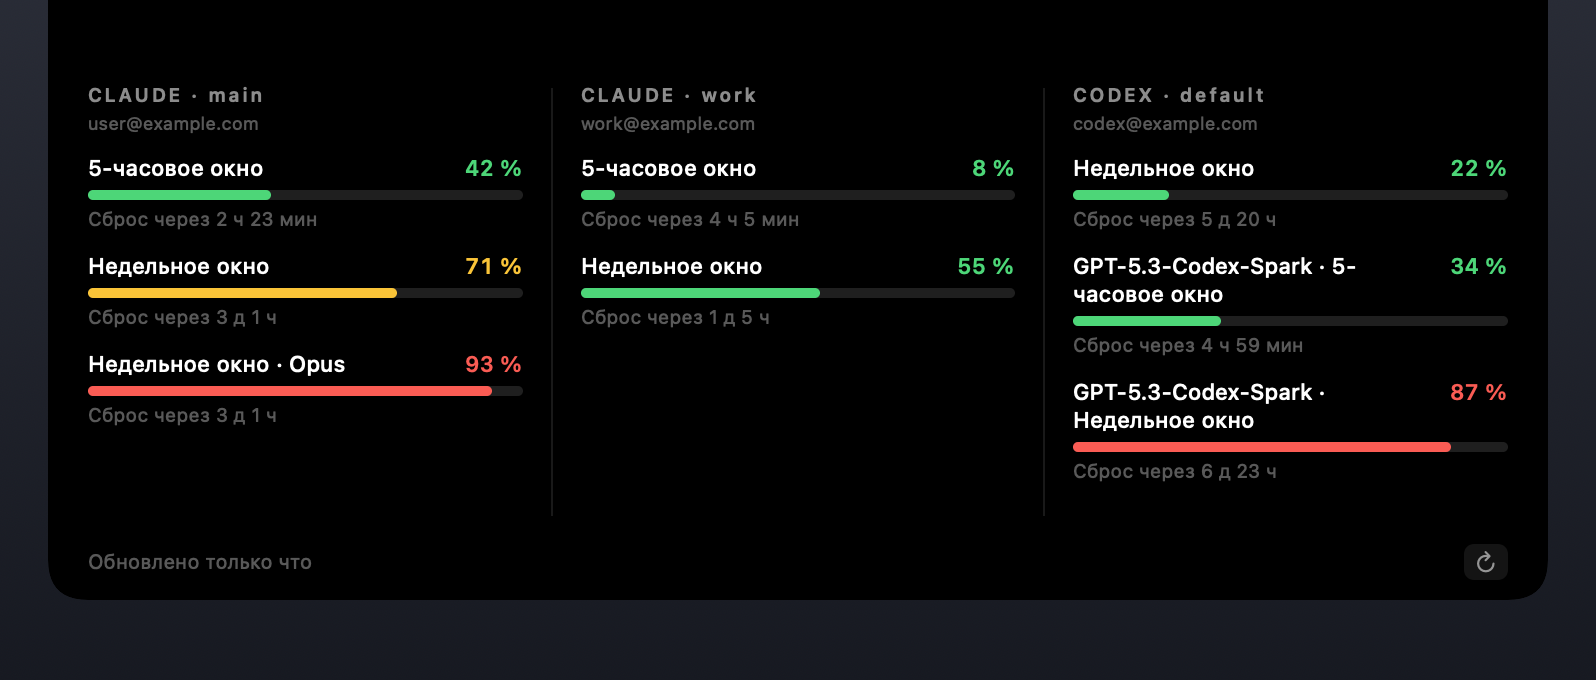
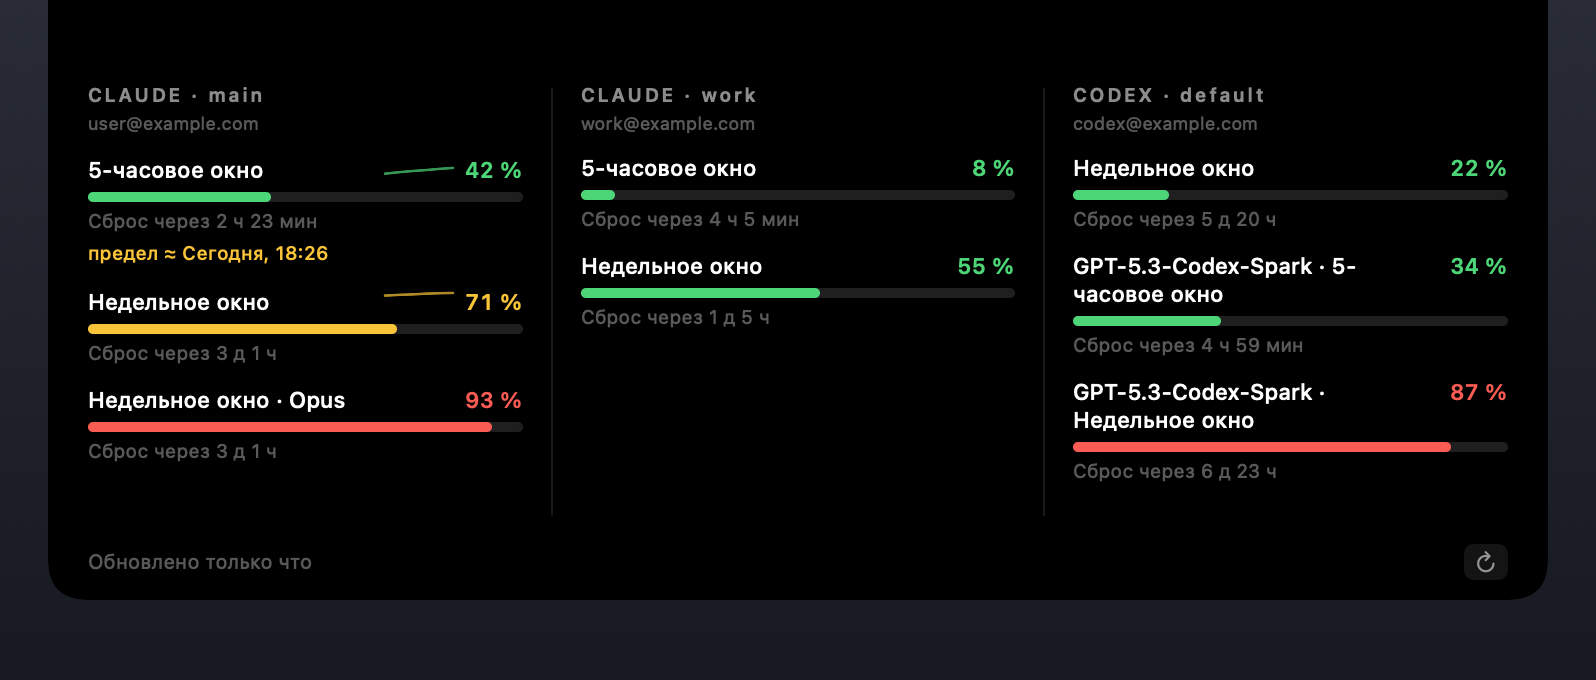
feat(trend): per-window sparkline and burn-rate forecast
Each window now keeps a short local history of its percentage
(UsageHistory, in UserDefaults, no tokens). From it:

- A sparkline next to the percentage on a fixed 0-100 scale, so the
  slope shows the true pace, not an auto-zoomed one. Shown only with
  >= 3 samples and real movement, otherwise it would be flat noise.
- A burn-rate forecast by least-squares slope: if the current pace
  reaches 100 % before the window resets, the row shows "full ≈ <time>"
  in yellow (red when under 45 min away). Flat/falling windows and
  ones that reset in time show nothing. The projection needs >= 3
  samples spanning >= 5 min to avoid slopes built from noise; a reset
  (percentage drop) restarts the series.

LimitWindow gains optional trend/exhaustsAt (optional so old caches
still decode). Pure UsageHistory.projection is covered by self-test;
new burn.limitAt string across all 14 languages (83 keys). Docs
images regenerated to show the sparkline and forecast.

Changed region(s): [[0.0307, 0.3397, 0.3377, 0.6794], [0.0614, 0.2162, 0.3377, 0.3397]]

diff --git a/Sources/NotchLimits/Core/UsageHistory.swift b/Sources/NotchLimits/Core/UsageHistory.swift
@@ -1,0 +1,82 @@
+import Foundation
+
+/// Короткая история процентов по каждому окну — для спарклайна и прогноза
+/// исчерпания. Только числа и метки времени, без токенов; лежит в UserDefaults.
+///
+/// Замеры пишутся на каждый успешный опрос. Когда окно сбрасывается (процент
+/// резко падает), серия начинается заново — старый склон уже не про это окно.
+struct UsageHistory {
+
+    struct Sample: Codable, Equatable {
+        let t: TimeInterval
+        let u: Double
+    }
+
+    private let defaults = UserDefaults.standard
+    private let storeKey = "usageHistory"
+    /// Держим только хвост: для склона важен недавний темп, не вся неделя.
+    private let maxSamples = 40
+    /// Падение процента больше этого считаем сбросом окна.
+    private let resetDrop = 0.5
+
+    /// Записать замер и вернуть обновлённую серию окна.
+    func record(columnID: String, window: LimitWindow, now: Date) -> [Sample] {
+        var all = load()
+        let key = "\(columnID)|\(window.key)"
+        var series = all[key] ?? []
+
+        if let last = series.last, window.utilization < last.u - resetDrop {
+            series = []  // окно сбросилось — начинаем заново
+        }
+        series.append(Sample(t: now.timeIntervalSince1970, u: window.utilization))
+        if series.count > maxSamples { series.removeFirst(series.count - maxSamples) }
+
+        all[key] = series
+        save(all)
+        return series
+    }
+
+    /// Прогноз момента, когда окно упрётся в 100 % при текущем темпе.
+    /// Возвращает дату только если предел наступит РАНЬШЕ сброса — иначе
+    /// беспокоиться не о чем. Чистая функция: покрыта самопроверкой.
+    static func projection(samples: [Sample], current: Double,
+                           resetsAt: Date?, now: Date) -> Date? {
+        guard current < 100, samples.count >= 3 else { return nil }
+
+        // Склон по методу наименьших квадратов, проценты в секунду.
+        let n = Double(samples.count)
+        let meanT = samples.reduce(0) { $0 + $1.t } / n
+        let meanU = samples.reduce(0) { $0 + $1.u } / n
+        var cov = 0.0, varT = 0.0
+        for s in samples {
+            cov += (s.t - meanT) * (s.u - meanU)
+            varT += (s.t - meanT) * (s.t - meanT)
+        }
+        // Нужен заметный разброс по времени, иначе склон — шум.
+        guard varT > 0, let first = samples.first, let last = samples.last,
+              last.t - first.t >= 300 else { return nil }
+
+        let slope = cov / varT
+        guard slope > 0 else { return nil }  // ровно или падает — предела не будет
+
+        let seconds = (100 - current) / slope
+        guard seconds.isFinite, seconds > 0 else { return nil }
+        let eta = now.addingTimeInterval(seconds)
+
+        // Показываем, только если упрёмся до сброса окна.
+        if let resetsAt, eta >= resetsAt { return nil }
+        return eta
+    }
+
+    private func load() -> [String: [Sample]] {
+        guard let data = defaults.data(forKey: storeKey),
+              let dict = try? JSONDecoder().decode([String: [Sample]].self, from: data)
+        else { return [:] }
+        return dict
+    }
+
+    private func save(_ dict: [String: [Sample]]) {
+        guard let data = try? JSONEncoder().encode(dict) else { return }
+        defaults.set(data, forKey: storeKey)
+    }
+}

diff --git a/Sources/NotchLimits/App/SelfTest.swift b/Sources/NotchLimits/App/SelfTest.swift
@@ -21,6 +21,7 @@ enum SelfTest {
         checkJWT()
         checkClaudeAuth()
         checkNotifications()
+        checkBurnRate()
         checkFormatting()
         checkCodableRoundTrips()
         checkLocalizations()
@@ -328,6 +329,54 @@ enum SelfTest {
         // Старый формат состояния без поля пика читается и не ломает разбор.
         let legacy = decide("100@80,95", "200", 3)
         expect("старый формат: пик отсутствует → не шумим", legacy.postReset == false)
+    }
+
+    private static func checkBurnRate() {
+        section("Прогноз исчерпания (burn-rate)")
+        let t0 = Date(timeIntervalSince1970: 1_000_000)
+        func sample(_ minutes: Double, _ u: Double) -> UsageHistory.Sample {
+            UsageHistory.Sample(t: t0.addingTimeInterval(minutes * 60).timeIntervalSince1970, u: u)
+        }
+
+        // Ровный рост 10 % за 30 мин (по 5 % каждые 15 мин): к 100 % ещё далеко,
+        // но сброс близко — упрёмся раньше сброса.
+        let rising = [sample(0, 80), sample(15, 85), sample(30, 90)]
+        let now = t0.addingTimeInterval(30 * 60)
+        let soonReset = now.addingTimeInterval(60 * 60)   // сброс через час
+        let eta = UsageHistory.projection(samples: rising, current: 90,
+                                          resetsAt: soonReset, now: now)
+        expect("растущее окно даёт прогноз", eta != nil)
+        // 90→100 при 5 % / 15 мин = 10 % за 30 мин ⇒ ~30 мин.
+        if let eta {
+            let minutes = eta.timeIntervalSince(now) / 60
+            expect("оценка ~30 мин", abs(minutes - 30) < 3, "\(Int(minutes)) мин")
+        }
+
+        // Тот же рост, но сброс раньше предела — беспокоиться не о чем.
+        expect("если сброс раньше предела — прогноза нет",
+               UsageHistory.projection(samples: rising, current: 90,
+                                       resetsAt: now.addingTimeInterval(10 * 60), now: now) == nil)
+
+        // Плоское окно — предел не наступит.
+        let flat = [sample(0, 40), sample(15, 40), sample(30, 40)]
+        expect("плоское окно без прогноза",
+               UsageHistory.projection(samples: flat, current: 40,
+                                       resetsAt: soonReset, now: now) == nil)
+
+        // Меньше трёх замеров или слишком короткий разброс — не гадаем.
+        expect("двух точек мало", UsageHistory.projection(samples: [sample(0, 10), sample(15, 50)],
+                                                          current: 50, resetsAt: soonReset, now: now) == nil)
+        let tooShort = [sample(0, 10), sample(1, 20), sample(2, 30)]  // разброс 2 мин < 5
+        expect("слишком короткий интервал — не гадаем",
+               UsageHistory.projection(samples: tooShort, current: 30, resetsAt: soonReset, now: now) == nil)
+
+        // Уже на 100 % — прогнозировать нечего.
+        expect("на 100 % прогноза нет",
+               UsageHistory.projection(samples: rising, current: 100, resetsAt: soonReset, now: now) == nil)
+
+        // Спарклайн: жёсткая шкала 0–100, точки в пределах прямоугольника.
+        let path = Sparkline(values: [0, 50, 100]).path(in: CGRect(x: 0, y: 0, width: 30, height: 10))
+        expect("спарклайн строит путь", !path.isEmpty)
     }
 
     private static func checkFormatting() {

diff --git a/Sources/NotchLimits/UI/ColumnView.swift b/Sources/NotchLimits/UI/ColumnView.swift
@@ -124,6 +124,14 @@ struct LimitRowView: View {
     private var fraction: Double { min(max(window.utilization / 100, 0), 1) }
     private var color: Color { Theme.color(for: window.utilization) }
 
+    /// Спарклайн показываем, только когда есть что показывать: хотя бы три
+    /// замера и заметное движение, иначе это просто плоская линия-шум.
+    private var trend: [Double]? {
+        guard let trend = window.trend, trend.count >= 3,
+              let lo = trend.min(), let hi = trend.max(), hi - lo > 1 else { return nil }
+        return trend
+    }
+
     var body: some View {
         VStack(alignment: .leading, spacing: 4) {
             HStack(alignment: .firstTextBaseline, spacing: 6) {
@@ -135,6 +143,13 @@ struct LimitRowView: View {
                     .multilineTextAlignment(.leading)
                     .fixedSize(horizontal: false, vertical: true)
                 Spacer(minLength: 4)
+                if let trend {
+                    Sparkline(values: trend)
+                        .stroke(color.opacity(0.7), style: StrokeStyle(lineWidth: 1.3,
+                                                                       lineCap: .round, lineJoin: .round))
+                        .frame(width: 34, height: 12)
+                        .layoutPriority(1)
+                }
                 Text(Format.percent(window.utilization))
                     .font(.system(size: 11, weight: .semibold).monospacedDigit())
                     .foregroundColor(color)
@@ -158,8 +173,36 @@ struct LimitRowView: View {
                     .font(.system(size: 9.5))
                     .foregroundColor(Theme.tertiary)
             }
+            // Прогноз: упрёмся в предел раньше сброса — предупреждаем.
+            // Цвет тревожный независимо от текущего процента (в том и смысл:
+            // сейчас мало, но при таком темпе не хватит). Совсем скоро — красный.
+            if let exhaustsAt = window.exhaustsAt {
+                Text(L.t("burn.limitAt", Format.resetAbsolute(exhaustsAt)))
+                    .font(.system(size: 9.5, weight: .medium))
+                    .foregroundColor(exhaustsAt.timeIntervalSinceNow < 45 * 60 ? Theme.red : Theme.yellow)
+            }
         }
         // При наведении — точный момент сброса: «сегодня, 13:30».
         .help(window.resetsAt.map(Format.resetAbsolute) ?? "")
+    }
+}
+
+/// Спарклайн процентов. Шкала жёстко 0–100, чтобы крутизна линии отражала
+/// реальный темп, а не автомасштаб: 2 %→3 % должно выглядеть почти плоско.
+struct Sparkline: Shape {
+    let values: [Double]
+
+    func path(in rect: CGRect) -> Path {
+        var path = Path()
+        guard values.count >= 2 else { return path }
+        let stepX = rect.width / CGFloat(values.count - 1)
+        func point(_ index: Int) -> CGPoint {
+            let clamped = min(max(values[index], 0), 100) / 100
+            return CGPoint(x: rect.minX + CGFloat(index) * stepX,
+                           y: rect.maxY - CGFloat(clamped) * rect.height)
+        }
+        path.move(to: point(0))
+        for index in 1..<values.count { path.addLine(to: point(index)) }
+        return path
     }
 }

diff --git a/Sources/NotchLimits/Core/UsageStore.swift b/Sources/NotchLimits/Core/UsageStore.swift
@@ -25,6 +25,7 @@ final class UsageStore: ObservableObject {
     private var tick: Timer?
     private var lastDiscovery: Date?
     private let cache = UsageCache()
+    private let history = UsageHistory()
     private let notifier = ThresholdNotifier()
     private let providers: [Provider: UsageProvider]
     private let discovery: AccountDiscovery
@@ -188,10 +189,20 @@ final class UsageStore: ObservableObject {
         case .success(let snapshot):
             state.backoffStep = 0
             state.nextDue = Date().addingTimeInterval(Schedule.interval)
-            columns[index].windows = snapshot.windows
+            let now = Date()
+            // Дописываем историю и считаем тренд/прогноз для каждого окна.
+            columns[index].windows = snapshot.windows.map { window in
+                let samples = history.record(columnID: id, window: window, now: now)
+                var enriched = window
+                enriched.trend = samples.map(\.u)
+                enriched.exhaustsAt = UsageHistory.projection(samples: samples,
+                                                              current: window.utilization,
+                                                              resetsAt: window.resetsAt, now: now)
+                return enriched
+            }
             columns[index].subtitle = snapshot.subtitle
             columns[index].stats = snapshot.stats
-            columns[index].updatedAt = Date()
+            columns[index].updatedAt = now
             columns[index].status = .ok
             columns[index].fromCache = false
             cache.save(columns[index])

diff --git a/Sources/NotchLimits/App/DebugRender.swift b/Sources/NotchLimits/App/DebugRender.swift
@@ -106,9 +106,12 @@ enum DebugRender {
         main.status = .ok
         main.windows = [
             LimitWindow(key: "five_hour", title: L.t("window.fiveHour"), utilization: 42,
-                        resetsAt: Date().addingTimeInterval(2.4 * hour)),
+                        resetsAt: Date().addingTimeInterval(2.4 * hour),
+                        trend: [18, 24, 29, 33, 38, 42],
+                        exhaustsAt: Date().addingTimeInterval(1.6 * hour)),
             LimitWindow(key: "seven_day", title: L.t("window.week"), utilization: 71,
-                        resetsAt: Date().addingTimeInterval(74 * hour)),
+                        resetsAt: Date().addingTimeInterval(74 * hour),
+                        trend: [60, 63, 65, 68, 70, 71]),
             LimitWindow(key: "seven_day_opus", title: L.t("window.week") + " · Opus", utilization: 93,
                         resetsAt: Date().addingTimeInterval(74 * hour))
         ]

diff --git a/Sources/NotchLimits/Model/Models.swift b/Sources/NotchLimits/Model/Models.swift
@@ -19,6 +19,13 @@ struct LimitWindow: Identifiable, Codable, Equatable {
     /// 0...100
     let utilization: Double
     let resetsAt: Date?
+    /// Недавние замеры процента для спарклайна. Optional — иначе старый кэш
+    /// без этого поля не декодировался бы (synthesized Decodable кинул бы
+    /// keyNotFound). Заполняется при отдаче в UI, не приходит от провайдера.
+    var trend: [Double]?
+    /// Прогноз: когда окно упрётся в 100 % при текущем темпе — если это
+    /// случится раньше сброса. nil — темп нулевой/падает или запаса хватает.
+    var exhaustsAt: Date?
 
     var id: String { key }
 }

diff --git a/Tools/make-strings.py b/Tools/make-strings.py
@@ -55,6 +55,7 @@ ORDER = [
     ("Статистика под окнами", [
         "stat.credits", "stat.unlimited", "stat.resetCredits", "stat.extraUsage",
     ]),
+    ("Прогноз исчерпания", ["burn.limitAt"]),
     ("Уведомления", ["notification.title", "notification.body",
                      "notification.reset.title", "notification.reset.body"]),
     ("Ошибки в колонке", [
@@ -940,6 +941,28 @@ for _lang, (_credits, _unlimited, _resets, _extra) in _STATS.items():
     T[_lang]["stat.unlimited"] = _unlimited
     T[_lang]["stat.resetCredits"] = _resets
     T[_lang]["stat.extraUsage"] = _extra
+
+
+# Прогноз исчерпания: «упрёшься в 100 % примерно тогда-то». Один «%@» —
+# готовая строка времени (Format.resetAbsolute), спецификатор совпадает везде.
+_BURN = {
+    "en":      "full ≈ %@",
+    "ru":      "предел ≈ %@",
+    "de":      "voll ≈ %@",
+    "fr":      "plein ≈ %@",
+    "es":      "lleno ≈ %@",
+    "it":      "pieno ≈ %@",
+    "pt-BR":   "cheio ≈ %@",
+    "uk":      "межа ≈ %@",
+    "pl":      "limit ≈ %@",
+    "tr":      "dolum ≈ %@",
+    "ja":      "上限 ≈ %@",
+    "ko":      "한도 ≈ %@",
+    "zh-Hans": "上限 ≈ %@",
+    "zh-Hant": "上限 ≈ %@",
+}
+for _lang, _text in _BURN.items():
+    T[_lang]["burn.limitAt"] = _text
 
 
 def main():

diff --git a/README.ru.md b/README.ru.md
@@ -15,6 +15,7 @@
 - Живёт в челке: свёрнутая панель совпадает с вырезом пиксель в пиксель и не видна.
 - Работает и без челки (внешний монитор, Mac mini, iMac).
 - Уведомления при пересечении 80 % и 95 % по любому окну и когда заметно израсходованное окно сбрасывается и освобождается.
+- Спарклайн недавнего тренда по каждому окну и прогноз исчерпания: если при текущем темпе окно упрётся в 100 % раньше сброса, строка показывает когда.
 - Переживает перезапуск: последние проценты кэшируются и показываются с пометкой возраста.
 - Ошибка или лимит одного аккаунта не трогает остальные колонки.
 - Интерфейс на 14 языках, выбирается по языку системы.
@@ -96,6 +97,8 @@ pkill -x NotchLimits; open build/NotchLimits.app
 - **`обновляю…`** — данных ещё не было.
 
 Сообщение про re-auth или ошибку показывается **поверх** кэшированных цифр, а не вместо них: иначе протухший токен выглядит просто как старые проценты и непонятно, что надо перелогиниться.
+
+Каждая строка держит короткую локальную историю своего процента (в `UserDefaults`, без токенов). Как накопится несколько замеров с заметным движением, рядом с процентом появляется **спарклайн** — шкала жёстко 0–100, чтобы крутизна отражала реальный темп, а не автомасштаб. По тем же замерам методом наименьших квадратов считается **прогноз исчерпания**: если при текущем темпе окно упрётся в 100 % *раньше* сброса, добавляется строка-предупреждение — `предел ≈ <время>` — жёлтым, а если до этого меньше 45 минут — красным. Плоские и падающие окна, а также те, что успевают сброситься, не показывают ничего. По наведению по-прежнему виден точный момент сброса.
 
 Под окнами перечисляются дополнительные цифры, если эндпоинт их отдал: баланс кредитов, доступные досрочные сбросы, расход сверх плана. Строки с нулём или без значения не показываются.
 
@@ -227,7 +230,7 @@ Sources/NotchLimits/
   UI/         SwiftUI-вёрстка панели
   Model/      типы колонок и окон лимитов
   Providers/  Claude (Keychain + api.anthropic.com), Codex (auth.json + chatgpt.com)
-  Core/       планировщик опроса, кэш, уведомления, хоткеи, добавление аккаунтов
+  Core/       планировщик опроса, кэш, история + прогноз, уведомления, хоткеи, добавление аккаунтов
 Tools/
   make-strings.py   переводы для всех языков
   make-icon.swift   иконка приложения

diff --git a/README.md b/README.md
@@ -15,6 +15,7 @@ A panel that slides out of the MacBook notch with **Claude Code** and **Codex** 
 - Lives in the notch — the collapsed panel matches the cutout pixel-for-pixel and stays invisible.
 - Works without a notch too (external display, Mac mini, iMac).
 - Notifications when any window crosses 80 % and 95 %, and when a heavily-used window resets and frees up.
+- A sparkline of the recent trend per window, plus a burn-rate forecast: if the current pace would hit 100 % before the window resets, the row shows when.
 - Survives restarts: last percentages are cached and shown with an age note.
 - One account's error or rate limit never touches the other columns.
 - UI in 14 languages, picked from the system language.
@@ -96,6 +97,8 @@ Width is 250 pt per column, no less than 500 pt and no wider than the screen min
 - **`updating…`** — no data yet.
 
 A re-auth or error message is shown **on top of** cached numbers, not instead of them — otherwise an expired token just looks like old percentages and there's no hint that you need to log in again.
+
+Each row keeps a short local history of its percentage (in `UserDefaults`, no tokens). Once there are a few samples with real movement, a **sparkline** appears next to the percentage — a fixed 0–100 scale, so the slope reflects the true pace rather than an auto-zoom. From the same samples a **burn-rate forecast** is computed by least-squares slope: if the current pace would reach 100 % *before* the window resets, the row adds a caution line — `full ≈ <time>` — in yellow, or red when that's under 45 minutes away. Flat or falling windows, and ones that comfortably reset first, show nothing. Hovering still gives the exact reset time.
 
 Below the windows, whatever extra numbers the endpoint returns are listed: credit balance, early resets available, usage billed beyond the plan. Lines with a zero or missing value are omitted.
 
@@ -227,7 +230,7 @@ Sources/NotchLimits/
   UI/         SwiftUI panel layout
   Model/      column and limit-window types
   Providers/  Claude (Keychain + api.anthropic.com), Codex (auth.json + chatgpt.com)
-  Core/       poll scheduler, cache, notifications, hotkeys, account setup
+  Core/       poll scheduler, cache, history + burn-rate, notifications, hotkeys, account setup
 Tools/
   make-strings.py   translations for every language
   make-icon.swift   app icon
